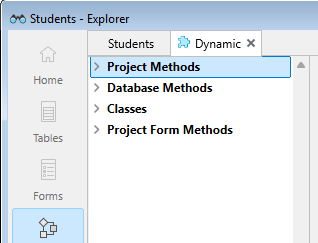
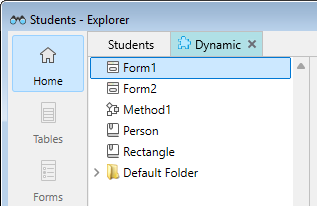
Explorer home for components (#2881)

diff --git a/docs/Extensions/develop-components.md b/docs/Extensions/develop-components.md
@@ -188,14 +188,18 @@ Select **Edit...** item is available when you right-click on the component name 
 
 ![edit-component](../assets/en/Project/Edit-component.png)
 
-When you select it, a dedicated tab is added (or highlighted if already added) in the Explorer. In this tab, the component code is editable in the following pages:
+When you select it, a dedicated tab is added (or highlighted if already added) in the Explorer. In this tab, the following standard pages are available and give access to the component contents:
 
 ![tab-component](../assets/en/Project/tab-component.png)
 
+- Home, including folders, methods, classes and (preview only) forms 
 - Project Methods
 - Database Methods ([On Web Connection](../commands-legacy/on-web-connection-database-method.md), [On Web Authentication](../commands-legacy/on-web-authentication-database-method.md), [On Host Database Event](../commands-legacy/on-host-database-event-database-method.md))
 - Classes
 - Project Form Methods
+- Commands and Constants
+- Plug-ins
+- Trash
 
 ![tab-component](../assets/en/Project/tab-component.gif)
 
@@ -203,7 +207,8 @@ When you select it, a dedicated tab is added (or highlighted if already added) i
 Standard 4D IDE features are available for the component. You can execute the following actions:
 - add, duplicate, delete, edit/save [methods and classes](../Project/code-overview.md)
 - preview code, show/edit [documentation](../Project/documentation.md), display/edit [method properties](../Project/code-overview.md#project-method-properties), 
-- run methods. 
+- run methods,
+- restore from trash or empty trash.
 
 
 
